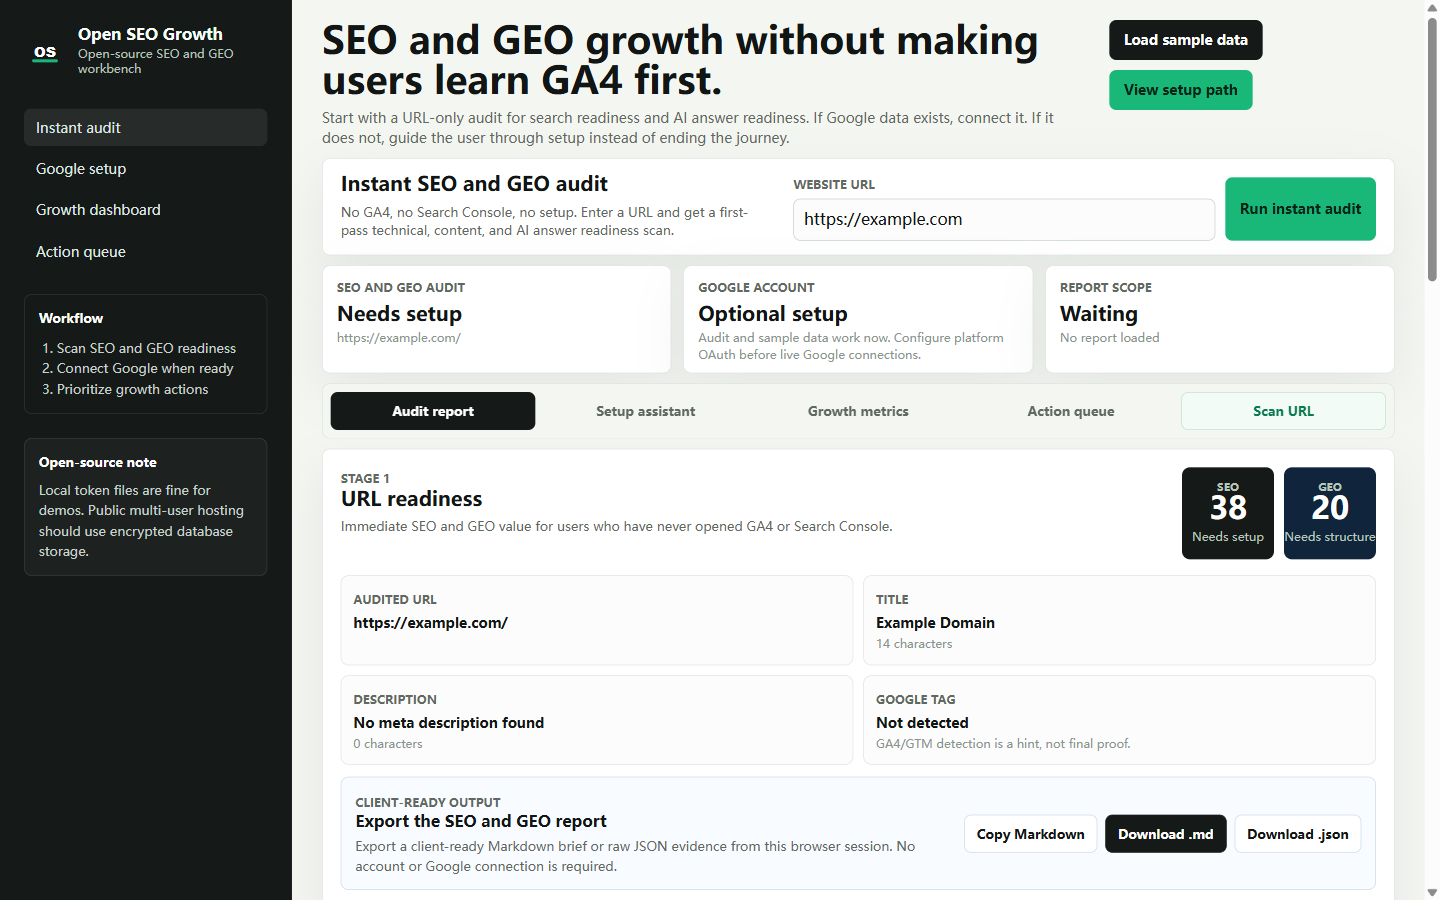
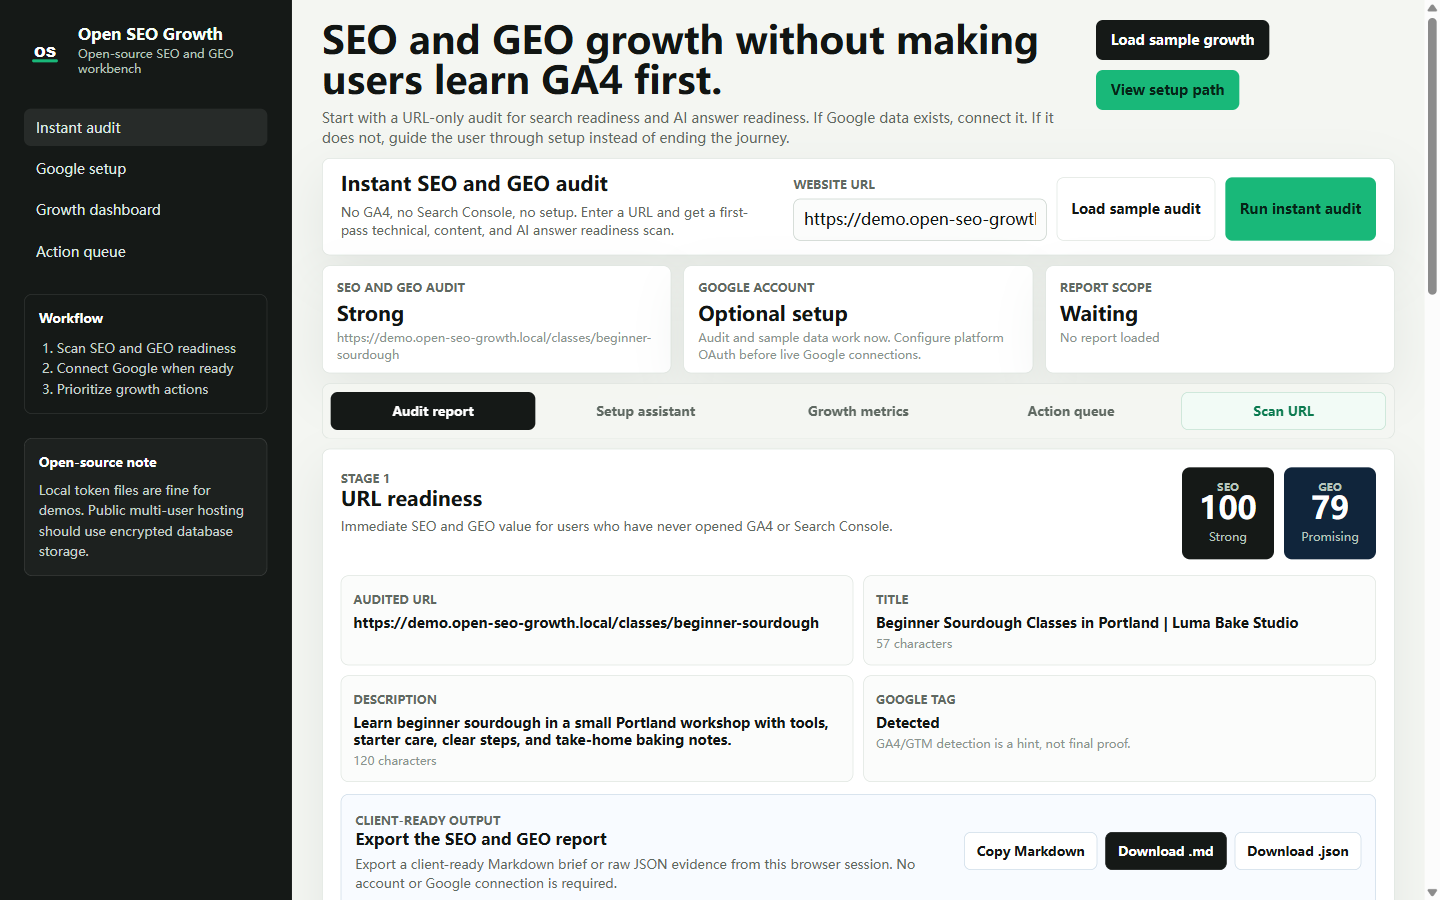
Add built-in sample audit

diff --git a/static/app.js b/static/app.js
@@ -109,6 +109,7 @@ function buildAuditMarkdown(audit) {
     ``,
     `Audited URL: ${audit.audited_url || "-"}`,
     `Generated: ${isoDate()}`,
+    audit.demo ? `Mode: Built-in sample audit` : `Mode: Live URL audit`,
     ``,
     `## Scorecard`,
     ``,
@@ -739,6 +740,28 @@ async function runAudit(event) {
   }
 }
 
+async function loadSampleAudit() {
+  $("sampleAuditBtn").disabled = true;
+  $("sampleAuditBtn").textContent = "Loading...";
+  try {
+    const payload = await api("/api/audit", {
+      method: "POST",
+      headers: { "Content-Type": "application/json" },
+      body: JSON.stringify({ demo: true }),
+    });
+    $("auditUrlInput").value = payload.audited_url || "https://demo.open-seo-growth.local/classes/beginner-sourdough";
+    renderAudit(payload);
+    if (!$("targetInput").value) $("targetInput").value = payload.audited_url || "";
+    updateGoogleLauncher();
+    showToast("Sample SEO/GEO audit loaded.");
+  } catch (error) {
+    showToast(error.message, "error");
+  } finally {
+    $("sampleAuditBtn").disabled = false;
+    $("sampleAuditBtn").textContent = "Load sample audit";
+  }
+}
+
 async function runAnalysis(event) {
   event.preventDefault();
   $("analyzeBtn").disabled = true;
@@ -834,6 +857,7 @@ function wireEvents() {
   $("analysisForm").addEventListener("submit", runAnalysis);
   $("refreshConnectionsBtn").addEventListener("click", refreshConnections);
   $("demoBtn").addEventListener("click", loadDemo);
+  $("sampleAuditBtn").addEventListener("click", loadSampleAudit);
   $("copyWebsiteBtn").addEventListener("click", copyWebsite);
   $("copyReportBtn").addEventListener("click", copyAuditMarkdown);
   $("downloadMarkdownBtn").addEventListener("click", downloadAuditMarkdown);

diff --git a/templates/index.html b/templates/index.html
@@ -48,7 +48,7 @@
             <p>Start with a URL-only audit for search readiness and AI answer readiness. If Google data exists, connect it. If it does not, guide the user through setup instead of ending the journey.</p>
           </div>
           <div class="hero-actions">
-            <button id="demoBtn" class="button secondary" type="button">Load sample data</button>
+            <button id="demoBtn" class="button secondary" type="button">Load sample growth</button>
             <a id="connectBtn" class="button primary" href="/auth/google/start">Connect Google</a>
           </div>
         </header>
@@ -63,6 +63,7 @@
               <span>Website URL</span>
               <input id="auditUrlInput" type="url" placeholder="https://example.com" autocomplete="url">
             </label>
+            <button id="sampleAuditBtn" class="button ghost" type="button">Load sample audit</button>
             <button id="auditBtn" class="button primary" type="submit">Run instant audit</button>
           </form>
         </section>

diff --git a/static/styles.css b/static/styles.css
@@ -257,7 +257,7 @@ a:focus-visible {
 
 .audit-form {
   display: grid;
-  grid-template-columns: minmax(0, 1fr) auto;
+  grid-template-columns: minmax(0, 1fr) auto auto;
   gap: 10px;
 }
 

diff --git a/seo_growth/instant_audit.py b/seo_growth/instant_audit.py
@@ -375,24 +375,21 @@ def build_geo_report(signals: PageSignals, robots: dict[str, Any], llms_txt: dic
     }
 
 
-def instant_audit(raw_url: str) -> dict[str, Any]:
-    url = normalize_url(raw_url)
-    response = fetch_url(url)
-    html = response.text[:1_500_000]
-    parser = SignalParser(response.url)
-    parser.feed(html)
-    signals = parser.finalize()
-    parsed = urlparse(response.url)
-    origin = f"{parsed.scheme}://{parsed.netloc}"
-    robots = fetch_optional(urljoin(origin, "/robots.txt"))
-    sitemap = fetch_optional(urljoin(origin, "/sitemap.xml"))
-    llms_txt = fetch_optional(urljoin(origin, "/llms.txt"))
-    geo_report = build_geo_report(signals, robots, llms_txt)
-
+def build_audit_response(
+    *,
+    audited_url: str,
+    status_code: int,
+    signals: PageSignals,
+    robots: dict[str, Any],
+    sitemap: dict[str, Any],
+    llms_txt: dict[str, Any],
+    demo: bool = False,
+) -> dict[str, Any]:
     title_len = len(signals.title)
     description_len = len(signals.description)
+    geo_report = build_geo_report(signals, robots, llms_txt)
     checks = [
-        {"id": "http_ok", "label": "Homepage returns a successful response", "ok": response.status_code < 400, "weight": 12, "fix": "Fix server errors or redirect loops before optimizing content."},
+        {"id": "http_ok", "label": "Homepage returns a successful response", "ok": status_code < 400, "weight": 12, "fix": "Fix server errors or redirect loops before optimizing content."},
         {"id": "title", "label": "Title tag is present and within a useful range", "ok": 20 <= title_len <= 65, "weight": 12, "fix": "Write a specific title around 45-60 characters."},
         {"id": "description", "label": "Meta description is present", "ok": 70 <= description_len <= 170, "weight": 10, "fix": "Add a concise search snippet that explains the page value."},
         {"id": "h1", "label": "Exactly one H1 found", "ok": len(signals.h1) == 1, "weight": 10, "fix": "Use one clear H1 that matches the page intent."},
@@ -442,8 +439,9 @@ def instant_audit(raw_url: str) -> dict[str, Any]:
     }
     return {
         "ok": True,
-        "audited_url": response.url,
-        "status_code": response.status_code,
+        "demo": demo,
+        "audited_url": audited_url,
+        "status_code": status_code,
         "score": score,
         "grade": "Strong" if score >= 80 else "Developing" if score >= 60 else "Needs setup",
         "summary": {
@@ -480,3 +478,84 @@ def instant_audit(raw_url: str) -> dict[str, Any]:
         "google_data_ready": signals.ga4_detected or signals.gtm_detected,
         "message": "Instant audit completed. Connect Google when you want verified clicks, impressions, rankings, and sessions.",
     }
+
+
+def instant_audit(raw_url: str) -> dict[str, Any]:
+    url = normalize_url(raw_url)
+    response = fetch_url(url)
+    html = response.text[:1_500_000]
+    parser = SignalParser(response.url)
+    parser.feed(html)
+    signals = parser.finalize()
+    parsed = urlparse(response.url)
+    origin = f"{parsed.scheme}://{parsed.netloc}"
+    robots = fetch_optional(urljoin(origin, "/robots.txt"))
+    sitemap = fetch_optional(urljoin(origin, "/sitemap.xml"))
+    llms_txt = fetch_optional(urljoin(origin, "/llms.txt"))
+    return build_audit_response(
+        audited_url=response.url,
+        status_code=response.status_code,
+        signals=signals,
+        robots=robots,
+        sitemap=sitemap,
+        llms_txt=llms_txt,
+    )
+
+
+def sample_audit() -> dict[str, Any]:
+    body_text = """
+    Luma Bake Studio sells small-batch sourdough classes for first-time home bakers, busy parents, and local food lovers
+    who want a reliable weekend recipe. The page explains who the class is for, what students learn, what equipment is
+    included, how long the workshop takes, and why the method works. It names the instructor, links to an about page,
+    shows privacy and contact information, and cites practical food-safety guidance from public sources. Students can
+    compare beginner, intermediate, and gift-card options, then book a date without calling the shop. The page also
+    answers common questions about gluten, starter maintenance, refunds, accessibility, and whether students need prior
+    baking experience. This sample keeps enough gaps to make the audit useful: the page has strong schema and trust
+    signals, but it still needs more crawlable depth and an optional llms.txt file before the GEO score is excellent.
+    """
+    signals = PageSignals(
+        title="Beginner Sourdough Classes in Portland | Luma Bake Studio",
+        description="Learn beginner sourdough in a small Portland workshop with tools, starter care, clear steps, and take-home baking notes.",
+        canonical="https://demo.open-seo-growth.local/classes/beginner-sourdough",
+        robots_meta="index,follow",
+        h1=["Beginner Sourdough Classes in Portland"],
+        headings={
+            "h2": [
+                "What will I learn in the sourdough class?",
+                "How does the beginner workshop work?",
+                "Who teaches the class?",
+            ],
+            "h3": [
+                "What should students bring?",
+                "Can I join without baking experience?",
+            ],
+            "h4": [],
+        },
+        body_text=body_text,
+        question_headings=[
+            "What will I learn in the sourdough class?",
+            "How does the beginner workshop work?",
+            "Who teaches the class?",
+            "What should students bring?",
+            "Can I join without baking experience?",
+        ],
+        author="Mia Chen",
+        site_name="Luma Bake Studio",
+        images=5,
+        images_missing_alt=0,
+        links_internal=12,
+        links_external=3,
+        external_hosts=["foodsafety.gov", "kingarthurbaking.com", "extension.oregonstate.edu"],
+        schema_types=["Organization", "WebSite", "WebPage", "FAQPage", "SoftwareApplication", "BreadcrumbList"],
+        ga4_detected=True,
+        gtm_detected=True,
+    )
+    return build_audit_response(
+        audited_url="https://demo.open-seo-growth.local/classes/beginner-sourdough",
+        status_code=200,
+        signals=signals,
+        robots={"ok": True, "status_code": 200, "url": "https://demo.open-seo-growth.local/robots.txt"},
+        sitemap={"ok": True, "status_code": 200, "url": "https://demo.open-seo-growth.local/sitemap.xml"},
+        llms_txt={"ok": False, "status_code": 404, "url": "https://demo.open-seo-growth.local/llms.txt"},
+        demo=True,
+    )

diff --git a/seo_growth/app.py b/seo_growth/app.py
@@ -7,7 +7,7 @@ from flask import Flask, jsonify, redirect, render_template, request, session, u
 from .analytics import demo_report, list_connections, run_growth_report
 from .config import load_settings
 from .google_oauth import FileTokenStore, authorized_session, current_session_id, ensure_credentials, make_flow
-from .instant_audit import instant_audit
+from .instant_audit import instant_audit, sample_audit
 
 
 ROOT = Path(__file__).resolve().parents[1]
@@ -84,6 +84,8 @@ def create_app() -> Flask:
     @app.post("/api/audit")
     def api_audit():
         payload = request.get_json(silent=True) or {}
+        if payload.get("demo"):
+            return jsonify(sample_audit())
         try:
             return jsonify(instant_audit(str(payload.get("url") or "")))
         except Exception as exc:

diff --git a/README.md b/README.md
@@ -17,6 +17,7 @@ It starts with a URL-only SEO and GEO audit that works without GA4 or Search Con
 - Instant URL audit with no Google setup
 - GEO readiness scan for crawlable text, answer structure, schema, trust signals, references, and optional `llms.txt`
 - Client-ready Markdown export and JSON evidence export from the browser
+- Built-in sample audit for demos without network, Google, or a real website
 - No-Google starter report for beginners
 - Clickable sandbox flow for the Google setup journey
 - Google OAuth connection flow
@@ -75,7 +76,7 @@ Open:
 http://127.0.0.1:8792
 ```
 
-You can use Instant audit, Setup assistant, Sandbox demo, and Load sample data without Google OAuth.
+You can use Instant audit, Load sample audit, Setup assistant, Sandbox demo, and Load sample growth without Google OAuth.
 
 The audit screen can export:
 
@@ -175,6 +176,14 @@ Run URL audit:
 ```json
 {
   "url": "https://example.com"
+}
+```
+
+Run the built-in sample audit:
+
+```json
+{
+  "demo": true
 }
 ```
 

diff --git a/docs/product-assets.md b/docs/product-assets.md
@@ -6,7 +6,7 @@ This project includes a small runtime asset set:
 - `static/assets/social-preview.svg`
 - `docs/assets/open-seo-growth-dashboard.png`
 
-The included screenshot is captured from the local running app after loading sample data.
+The included screenshot is captured from the local running app after loading the built-in sample audit.
 
 Use only screenshots captured from the running app in the README.
 
@@ -27,6 +27,7 @@ Open SEO Growth helps beginners audit SEO and GEO readiness, connect Google, and
 ## Workflow Labels
 
 - Instant SEO and GEO audit
+- Built-in sample audit
 - Client-ready report export
 - Google setup
 - Growth dashboard

diff --git a/docs/architecture.md b/docs/architecture.md
@@ -27,6 +27,8 @@ The user enters a URL and receives an instant technical, on-page, and GEO readin
 
 The GEO report is generated from the same fetched HTML. It looks for visible content depth, clear page topic signals, structured data, answer-led sections, trust evidence, external references, search access, and optional `/llms.txt`.
 
+The audit API also accepts `{ "demo": true }` and returns a built-in sample audit. This keeps the demo and export workflow available even when the user has no website URL, no Google account, or no network access to a target site.
+
 The frontend can export the current audit from browser state as Markdown or JSON. These exports are client-side only and do not write reports to disk or the Flask server.
 
 ### Setup Assistant Mode

diff --git a/docs/geo-readiness.md b/docs/geo-readiness.md
@@ -55,6 +55,8 @@ The browser UI can export the current audit as Markdown or JSON. Markdown is mea
 
 No export is written to the server by default.
 
+Use the built-in sample audit to test exports without fetching a real website.
+
 ## Reference Points
 
 - Google Search Central: [Create helpful, reliable, people-first content](https://developers.google.com/search/docs/fundamentals/creating-helpful-content)